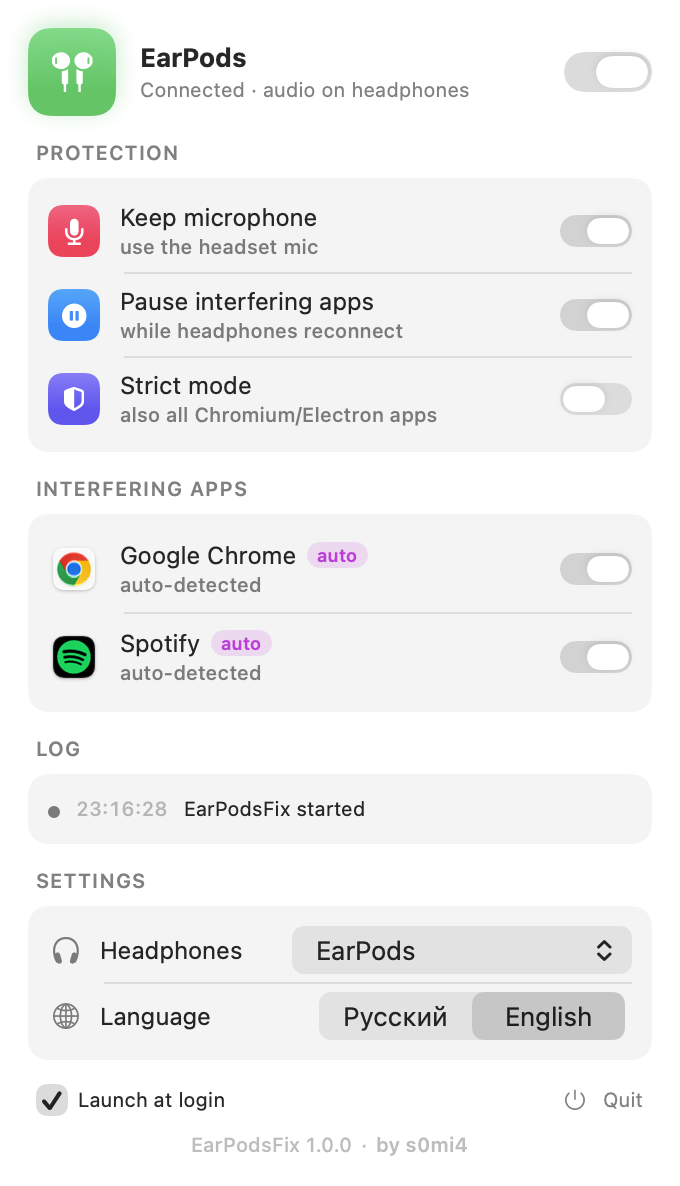
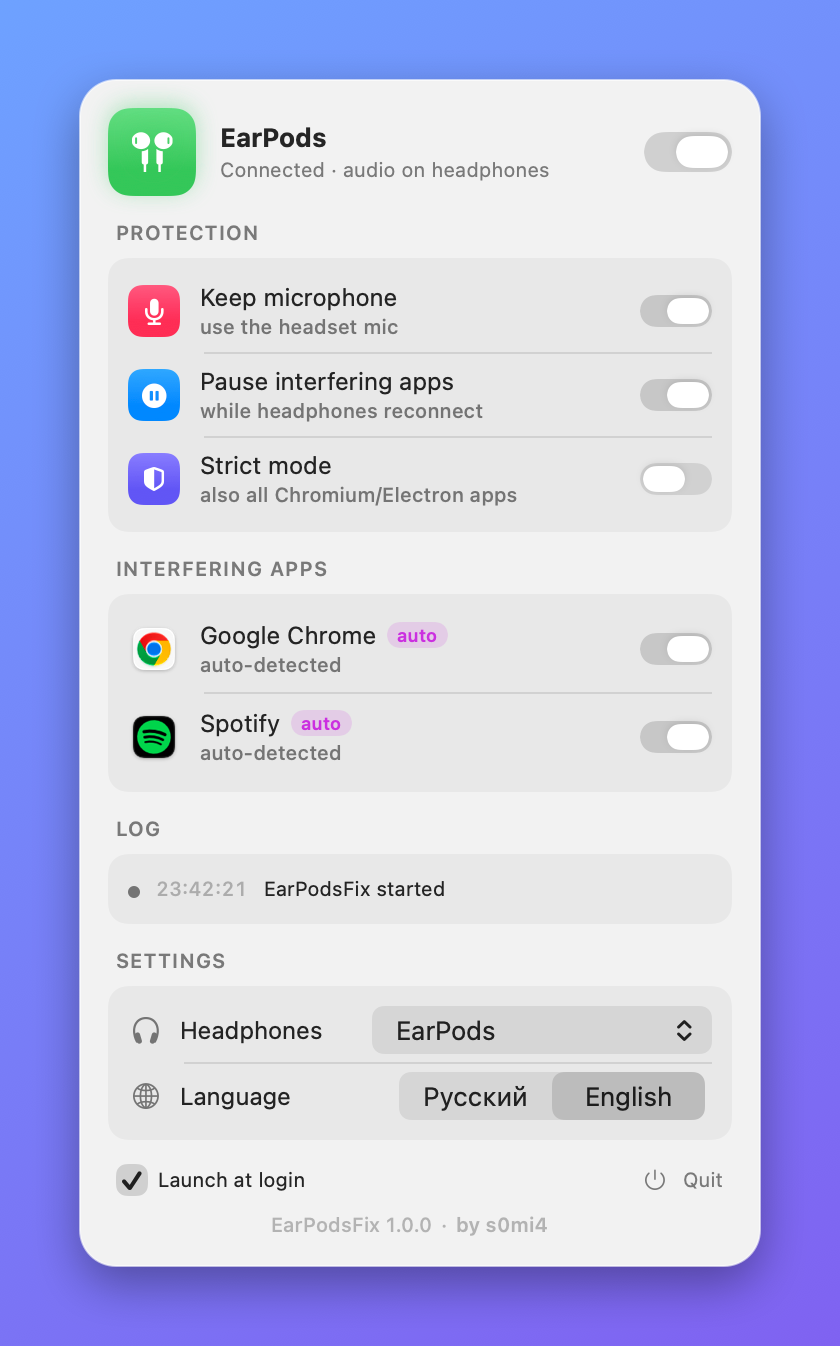
Screenshots on an opaque framed background

diff --git a/tools/frame_screenshot.swift b/tools/frame_screenshot.swift
@@ -1,0 +1,52 @@
+// Оформляет снимок панели для README: непрозрачная подложка панели со скруглёнными углами и тенью
+// на градиентном фоне (как у иконки). Без прозрачности — хорошо смотрится в светлой и тёмной теме GitHub.
+// Запуск: swift frame_screenshot.swift вход.png выход.png
+
+import AppKit
+
+let args = CommandLine.arguments
+guard args.count > 2, let img = NSImage(contentsOfFile: args[1]),
+      let cg = img.cgImage(forProposedRect: nil, context: nil, hints: nil) else { fatalError("вход.png выход.png") }
+
+let pw = CGFloat(cg.width), ph = CGFloat(cg.height)     // снимок в пикселях (2x)
+let pad: CGFloat = 80                                   // поле вокруг панели
+let W = pw + pad * 2, H = ph + pad * 2
+let rep = NSBitmapImageRep(bitmapDataPlanes: nil, pixelsWide: Int(W), pixelsHigh: Int(H), bitsPerSample: 8,
+                           samplesPerPixel: 4, hasAlpha: true, isPlanar: false, colorSpaceName: .deviceRGB,
+                           bytesPerRow: 0, bitsPerPixel: 0)!
+NSGraphicsContext.saveGraphicsState()
+NSGraphicsContext.current = NSGraphicsContext(bitmapImageRep: rep)
+let ctx = NSGraphicsContext.current!.cgContext
+
+// фон — фирменный градиент
+NSGradient(colors: [
+    NSColor(calibratedRed: 0.36, green: 0.55, blue: 1.00, alpha: 1),
+    NSColor(calibratedRed: 0.42, green: 0.27, blue: 0.93, alpha: 1),
+])!.draw(in: NSRect(x: 0, y: 0, width: W, height: H), angle: -60)
+
+// подложка панели с тенью (как всплывающее окно macOS)
+let panel = CGRect(x: pad, y: pad, width: pw, height: ph)
+let shape = CGPath(roundedRect: panel, cornerWidth: 36, cornerHeight: 36, transform: nil)
+ctx.saveGState()
+ctx.setShadow(offset: CGSize(width: 0, height: -18), blur: 50, color: NSColor.black.withAlphaComponent(0.35).cgColor)
+ctx.addPath(shape)
+ctx.setFillColor(NSColor(white: 0.95, alpha: 1).cgColor)
+ctx.fillPath()
+ctx.restoreGState()
+
+// сам снимок поверх подложки, обрезанный по её форме
+ctx.saveGState()
+ctx.addPath(shape)
+ctx.clip()
+ctx.draw(cg, in: panel)
+ctx.restoreGState()
+
+// тонкая светлая обводка
+ctx.addPath(shape)
+ctx.setStrokeColor(NSColor.white.withAlphaComponent(0.6).cgColor)
+ctx.setLineWidth(2)
+ctx.strokePath()
+
+NSGraphicsContext.restoreGraphicsState()
+try! rep.representation(using: .png, properties: [:])!.write(to: URL(fileURLWithPath: args[2]))
+print("→ \(args[2])")

diff --git a/README.md b/README.md
@@ -16,9 +16,9 @@
 <p align="center"><a href="#english">English</a> · <a href="#русский">Русский</a></p>
 
 <p align="center">
-  <img src="docs/screenshot-en.png" width="340" alt="EarPodsFix menu (English)">
+  <img src="docs/screenshot-en.png" width="380" alt="EarPodsFix menu (English)">
   &nbsp;&nbsp;
-  <img src="docs/screenshot-ru.png" width="340" alt="Меню EarPodsFix (русский)">
+  <img src="docs/screenshot-ru.png" width="380" alt="Меню EarPodsFix (русский)">
 </p>
 
 ---
